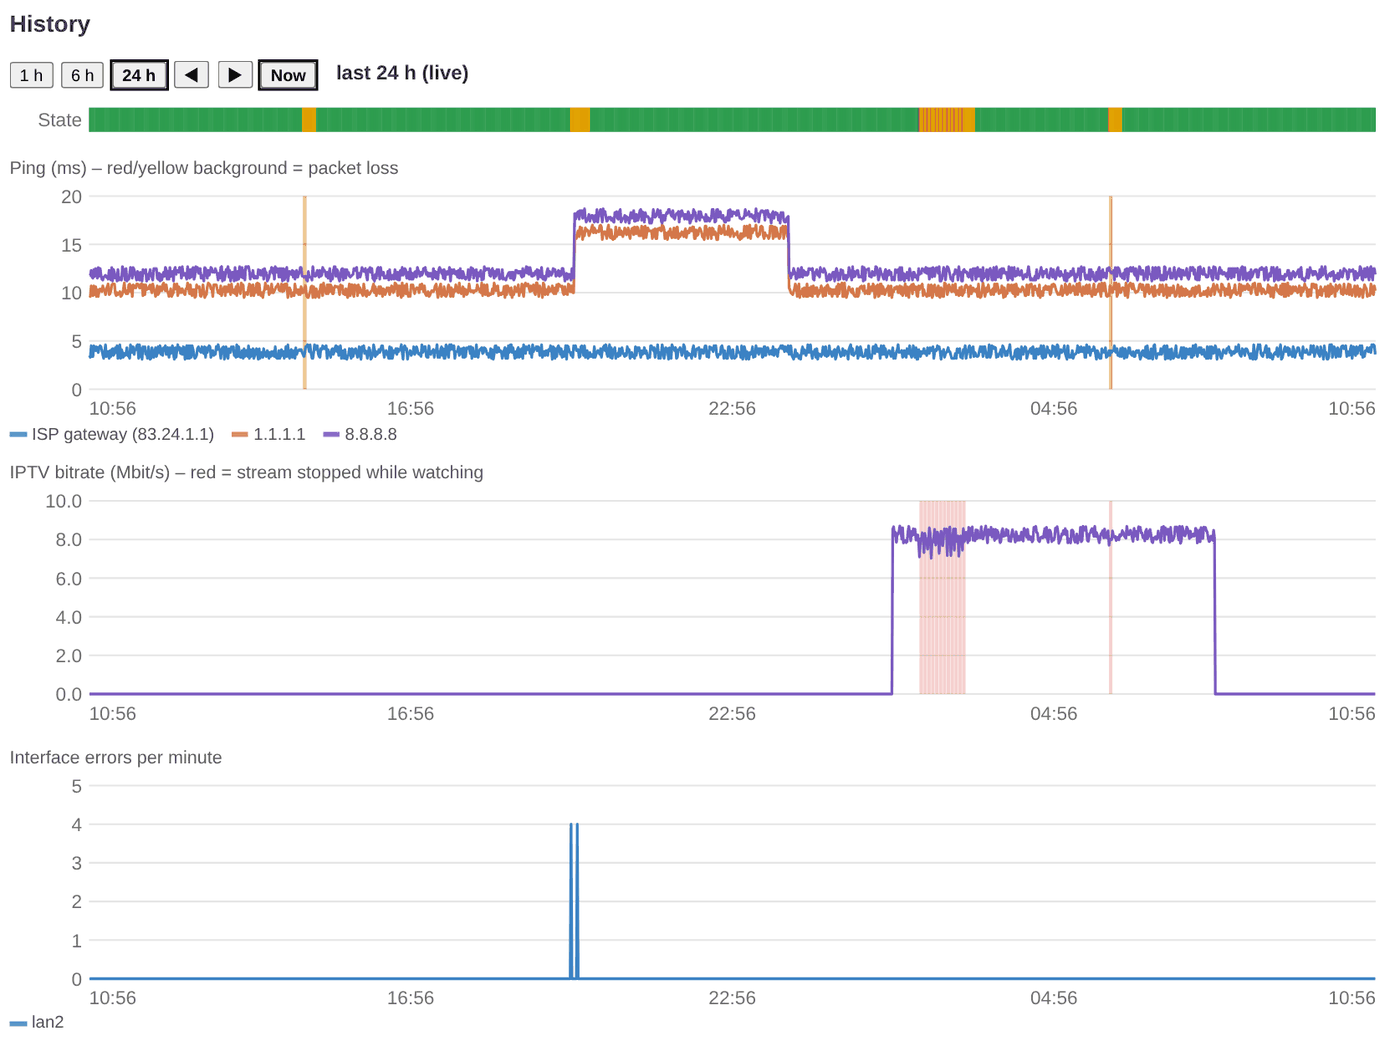
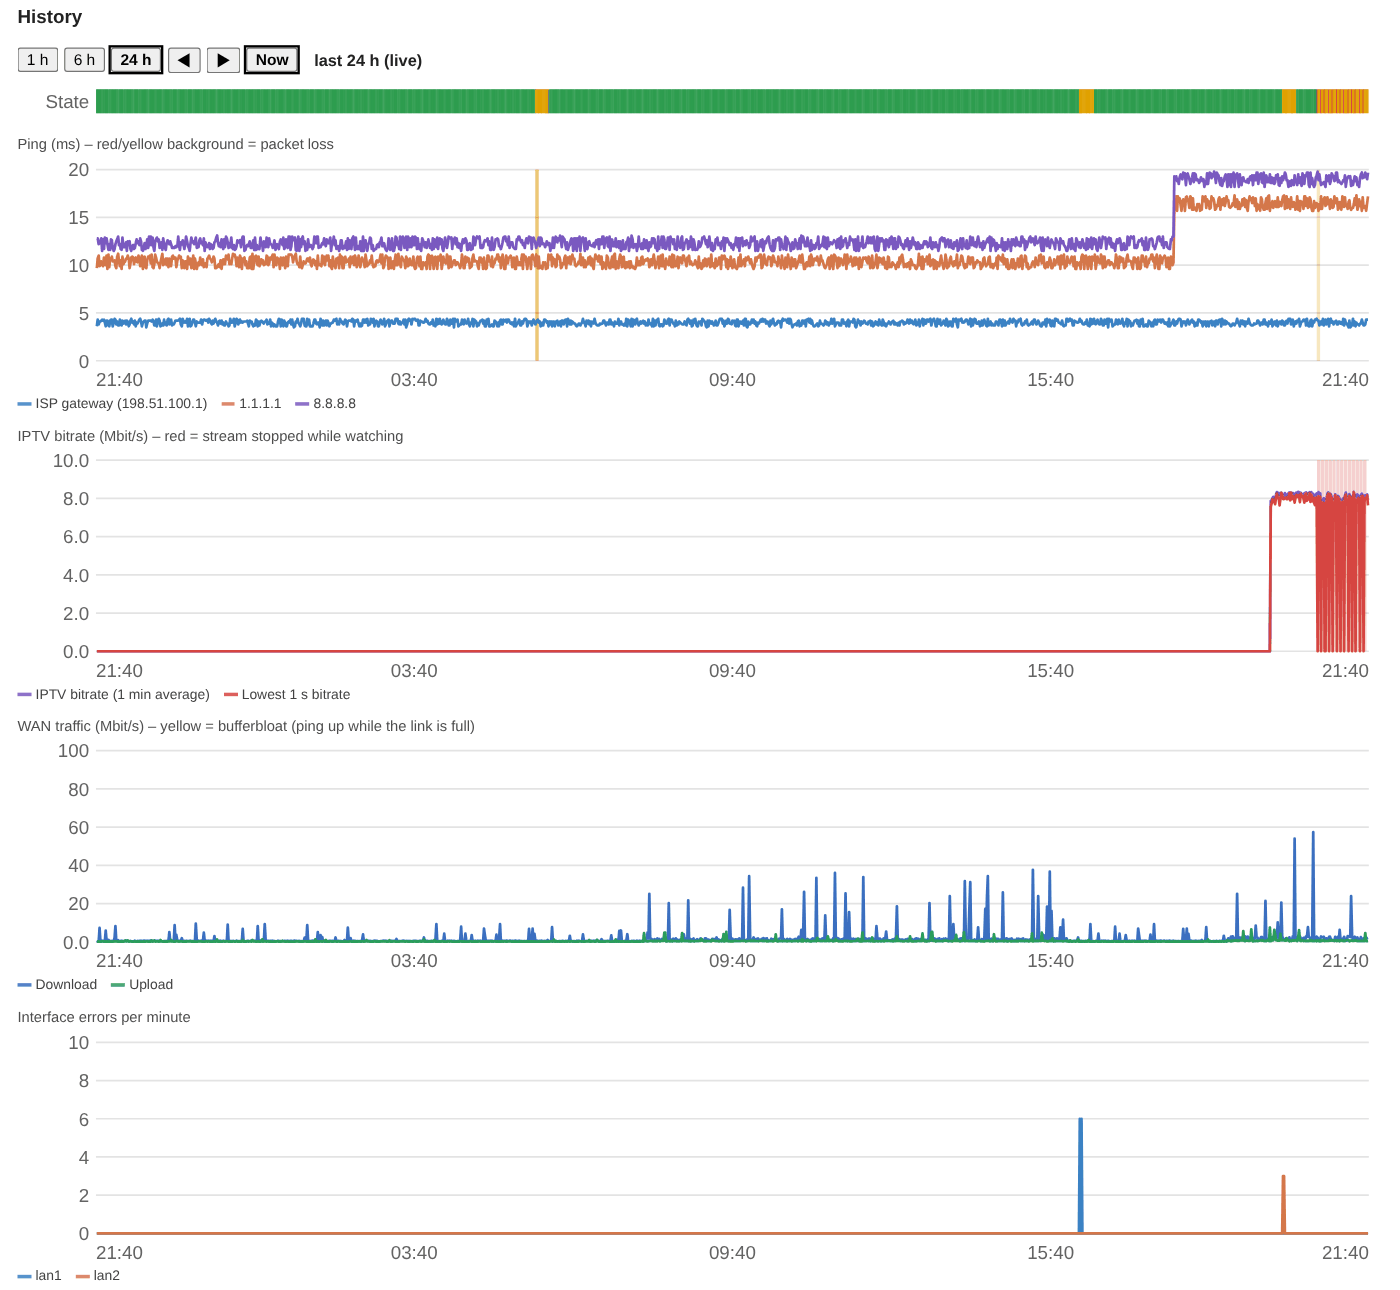
README: refresh screenshots for the current UI
Regenerated from the current overview.js with demo data (same scenario:
evening IPTV freezes every ~260 s, two packet-loss bursts at the ISP
gateway, a flapping LAN port). Shows the key-number tiles on the cards,
the action buttons in the banner, the WAN traffic chart, the newer
probable-cause wording and documentation IP addresses.

Claude-Session: https://claude.ai/code/session_01WWQnakcrrmy34epvLmz1iL

Changed region(s): [[0.0, 0.0, 0.9829, 0.7992], [0.0, 0.7992, 0.9829, 1.0], [0.7679, 0.5841, 0.7986, 0.6455]]

diff --git a/README.md b/README.md
@@ -14,7 +14,7 @@ Target: **OpenWrt 24.10 and 25.12** (ucode + rpcd + LuCI JS). No compiled code, 
 
 ![Probable cause panel](docs/screenshots/probable-cause.png)
 
-**History, last 24 h.** It shows a state strip, ping with packet-loss bands, IPTV bitrate and interface errors:
+**History, last 24 h.** It shows a state strip, ping with packet-loss bands, IPTV bitrate, WAN traffic and interface errors:
 
 ![24 h history](docs/screenshots/history-24h.png)
 
